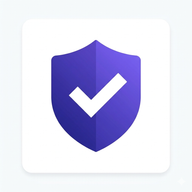
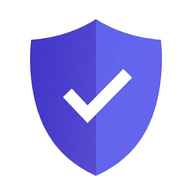
feat: 新しい盾アイコンでファビコン・OGP・ヘッダーロゴを全面差し替え

diff --git a/app/components/SiteHeader.tsx b/app/components/SiteHeader.tsx
@@ -18,7 +18,7 @@ export function SiteHeader() {
       <AffiliateDisclosure />
       <div className="mx-auto flex h-14 max-w-6xl items-center justify-between border-b border-[#e8e8e8] px-6 md:px-8">
         <Link href="/" className="inline-flex items-center gap-2 no-underline">
-          <Image src="/logo-24.png" alt="" width={24} height={24} className="block" />
+          <Image src="/logo-28.png" alt="" width={28} height={28} className="block" />
           <span className="text-[24px] font-black tracking-[-1px]" style={{ background: 'linear-gradient(135deg, #4338ca, #6366f1)', WebkitBackgroundClip: 'text', WebkitTextFillColor: 'transparent', backgroundClip: 'text' }}>スマートプラン</span>
         </Link>
         <nav aria-label="グローバル" className="flex items-center gap-1">
@@ -45,7 +45,7 @@ export function LogoHeader({ compact = false }: { compact?: boolean }) {
       <AffiliateDisclosure />
       <div className={`text-center ${compact ? 'py-5' : 'py-7'}`}>
         <Link href="/" className="inline-flex items-center gap-2 no-underline">
-          <Image src="/logo-24.png" alt="" width={24} height={24} className="block" />
+          <Image src="/logo-28.png" alt="" width={28} height={28} className="block" />
           <span className={`font-black tracking-[-1px] ${compact ? 'text-[22px]' : 'text-[24px]'}`} style={{ background: 'linear-gradient(135deg, #4338ca, #6366f1)', WebkitBackgroundClip: 'text', WebkitTextFillColor: 'transparent', backgroundClip: 'text' }}>
             スマートプラン
           </span>

diff --git a/app/layout.tsx b/app/layout.tsx
@@ -49,7 +49,7 @@ export const metadata: Metadata = {
       { url: "/icon-512.png", sizes: "512x512", type: "image/png" },
     ],
     apple: [
-      { url: "/apple-icon.png", sizes: "180x180", type: "image/png" },
+      { url: "/apple-touch-icon.png", sizes: "180x180", type: "image/png" },
     ],
   },
 };
